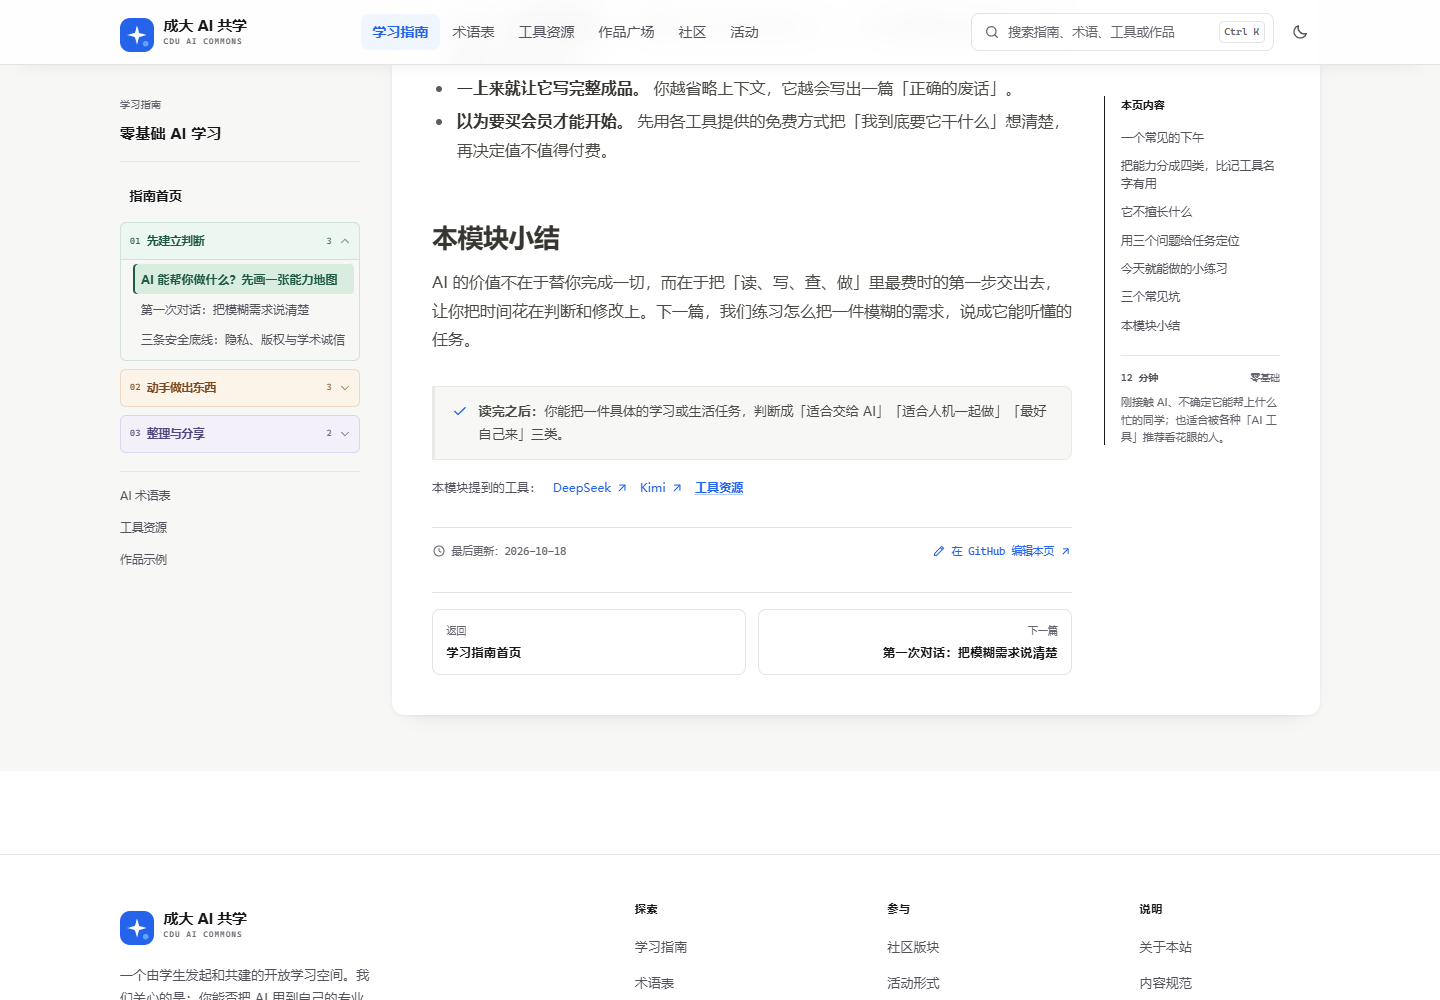
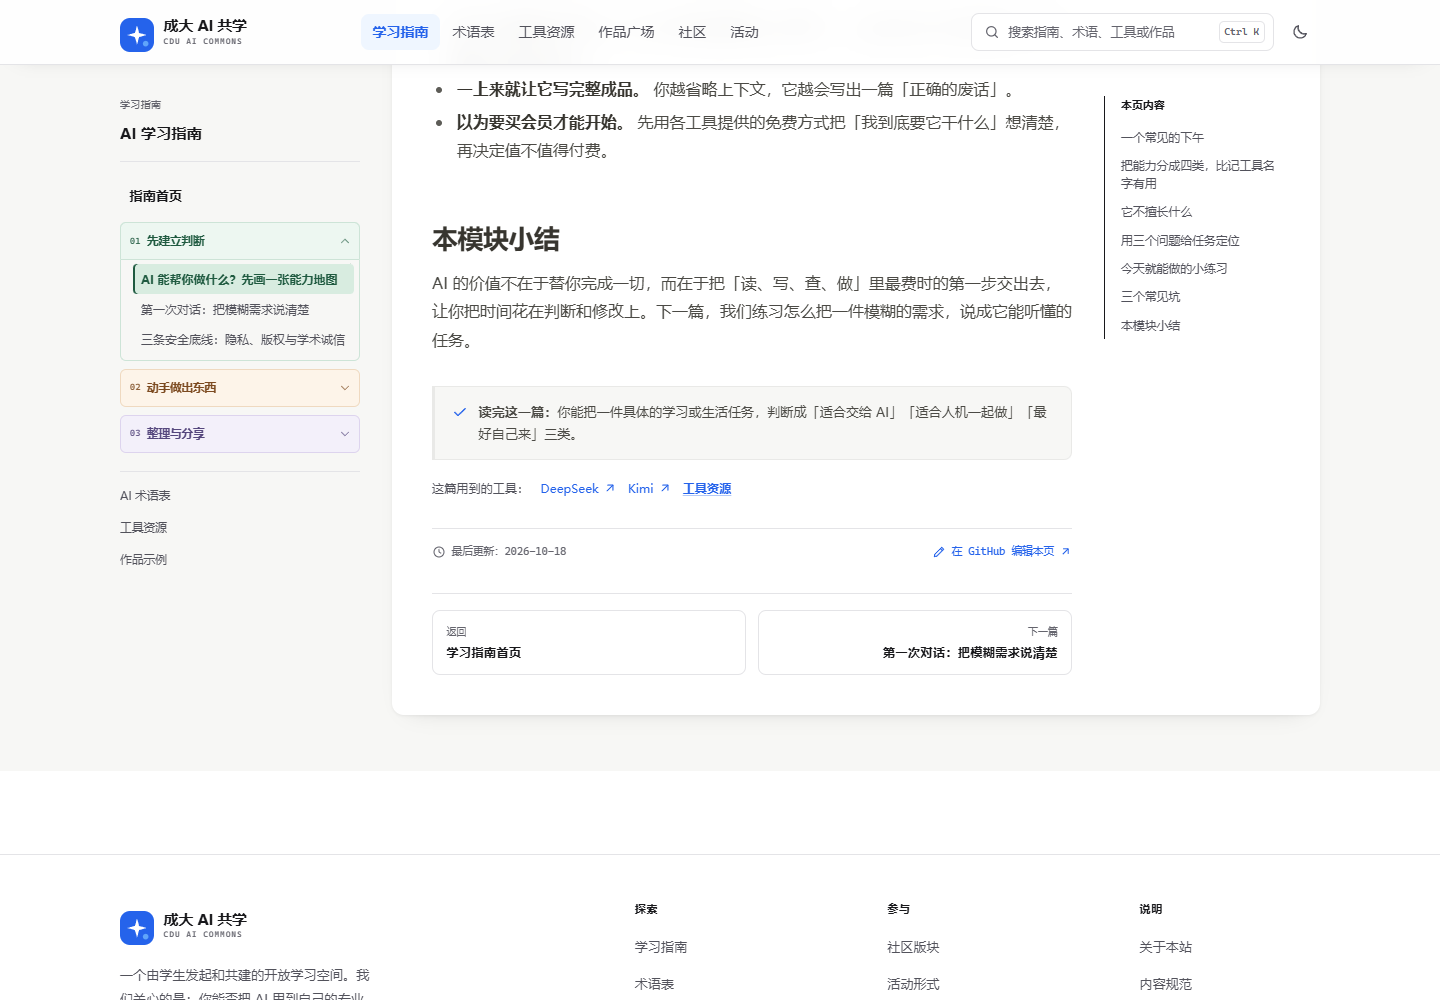
style: 精简指南模块页与正文的模块化表达

diff --git a/src/styles/vibe.css b/src/styles/vibe.css
@@ -1978,7 +1978,7 @@ body.search-open {
 
 .wiki-stage__head {
   display: grid;
-  grid-template-columns: 1.8rem minmax(0, 1fr) auto;
+  grid-template-columns: 1.8rem minmax(0, 1fr);
   align-items: start;
   gap: 0.9rem;
   padding-bottom: 0.75rem;
@@ -2026,7 +2026,7 @@ body.search-open {
 
 .wiki-module-list a {
   display: grid;
-  grid-template-columns: 1.7rem minmax(0, 1fr) auto auto;
+  grid-template-columns: 1.7rem minmax(0, 1fr) auto;
   align-items: center;
   gap: 0.6rem;
   min-height: 44px;

diff --git a/src/styles/notion.css b/src/styles/notion.css
@@ -409,3 +409,14 @@
     height: 32px;
   }
 }
+.breadcrumb__stage {
+  display: inline-flex;
+  align-items: center;
+  gap: 0.35rem;
+}
+
+@media (max-width: 600px) {
+  .breadcrumb__stage {
+    display: none;
+  }
+}

diff --git a/src/content/guide/08-build-your-rhythm.md b/src/content/guide/08-build-your-rhythm.md
@@ -78,6 +78,6 @@ updated: "2026-10-18"
 - **目标定得太大。** 「这学期精通 AI」不是目标；「两周内把这个任务做完并写一页记录」才是。
 - **只看教程不动手。** 看十篇不如做完一个小任务，再把过程写下来。
 
-## 本模块小结
+## 小结
 
 到这里，这个入门系列就完整走了一遍：先建立判断，再动手做出东西，最后整理分享。你不需要记住所有工具，只要保留三个习惯——**先问任务、再动手、做完复盘**。下次卡住时，回到任意一篇对应模块重读，比重新找教程更快。

diff --git a/src/content/guide/02-first-conversation.md b/src/content/guide/02-first-conversation.md
@@ -67,6 +67,6 @@ updated: "2026-10-18"
 - **不敢追问。** 不满意时直接说哪里不对、改成什么样，不用重新开一个对话假装从零开始。
 - **忘记给上下文。** 它没有你的课程安排、社团情况、专业背景，你不说，它只能写通用内容。
 
-## 本模块小结
+## 小结
 
 把需求说清楚，本质上是把你脑子里的任务拆成别人能执行的指令。这个能力不只在用 AI 时有用，和同学协作、写作业要求、做汇报分工都用得上。下一篇，我们讲使用时必须先守住的三条安全底线。

diff --git a/src/content/guide/01-ai-capability-map.md b/src/content/guide/01-ai-capability-map.md
@@ -68,6 +68,6 @@ updated: "2026-10-18"
 - **一上来就让它写完整成品。** 你越省略上下文，它越会写出一篇「正确的废话」。
 - **以为要买会员才能开始。** 先用各工具提供的免费方式把「我到底要它干什么」想清楚，再决定值不值得付费。
 
-## 本模块小结
+## 小结
 
 AI 的价值不在于替你完成一切，而在于把「读、写、查、做」里最费时的第一步交出去，让你把时间花在判断和修改上。下一篇，我们练习怎么把一件模糊的需求，说成它能听懂的任务。

diff --git a/src/content/guide/06-verify-output.md b/src/content/guide/06-verify-output.md
@@ -81,6 +81,6 @@ updated: "2026-10-18"
 - **把「多数资料显示」当来源。** 没列出具体来源的概括，通常不能引用。
 - **不记录。** 过几天你自己也分不清哪句是原话、哪句是 AI 改写的。
 
-## 本模块小结
+## 小结
 
 验证不是对 AI 不信任，而是对自己的作业负责。养成「找来源、做复算、换角度、留记录」的习惯，你就能把 AI 的草稿变成自己能承担的内容。下一篇，我们把这些过程整理成一个别人看得懂的作品。

diff --git a/src/content/guide/05-make-first-output.md b/src/content/guide/05-make-first-output.md
@@ -72,6 +72,6 @@ updated: "2026-10-18"
 - **拿来路不明的素材。** 校徽、他人照片、品牌 logo 都有使用限制，不要默认能用。
 - **不检查就发群。** 生成的内容里可能有错字、重复句、占位符，发出前一定通读。
 
-## 本模块小结
+## 小结
 
 做出第一个成果的关键不是工具多强，而是**任务够小、信息够真、交付标准够清楚**。下一篇讲一个容易被忽略但最重要的环节：怎么验证 AI 给出的内容。

diff --git a/src/content/guide/07-package-your-work.md b/src/content/guide/07-package-your-work.md
@@ -66,6 +66,6 @@ updated: "2026-10-18"
 - **过度包装。** 「颠覆」「神器」「一键搞定」这类词会让人怀疑内容的真实性。
 - **隐私混进截图。** 聊天记录、名单、后台页面里常有意外的个人信息，截图前放大看一眼。
 
-## 本模块小结
+## 小结
 
 能把一件事讲清楚，说明你真的理解了它。记录过程不仅为了分享，更是为了下次改进。下一篇，我们把这套做法固化成属于自己的学习节奏。

diff --git a/src/content/guide/04-find-a-real-task.md b/src/content/guide/04-find-a-real-task.md
@@ -72,6 +72,6 @@ updated: "2026-10-18"
 - **把想象中别人的需求当成自己的需求。** 先解决你本人这周真的遇到的问题。
 - **做完不记录。** 下次换个任务又从零开始，经验留不下来。
 
-## 本模块小结
+## 小结
 
 找任务的诀窍不是等灵感，而是把日常摩擦写下来，再用「一天能完成、材料已有、失败无代价」三条筛一遍。下一篇，我们把这个小任务真正做成一个能拿出手的成果。
